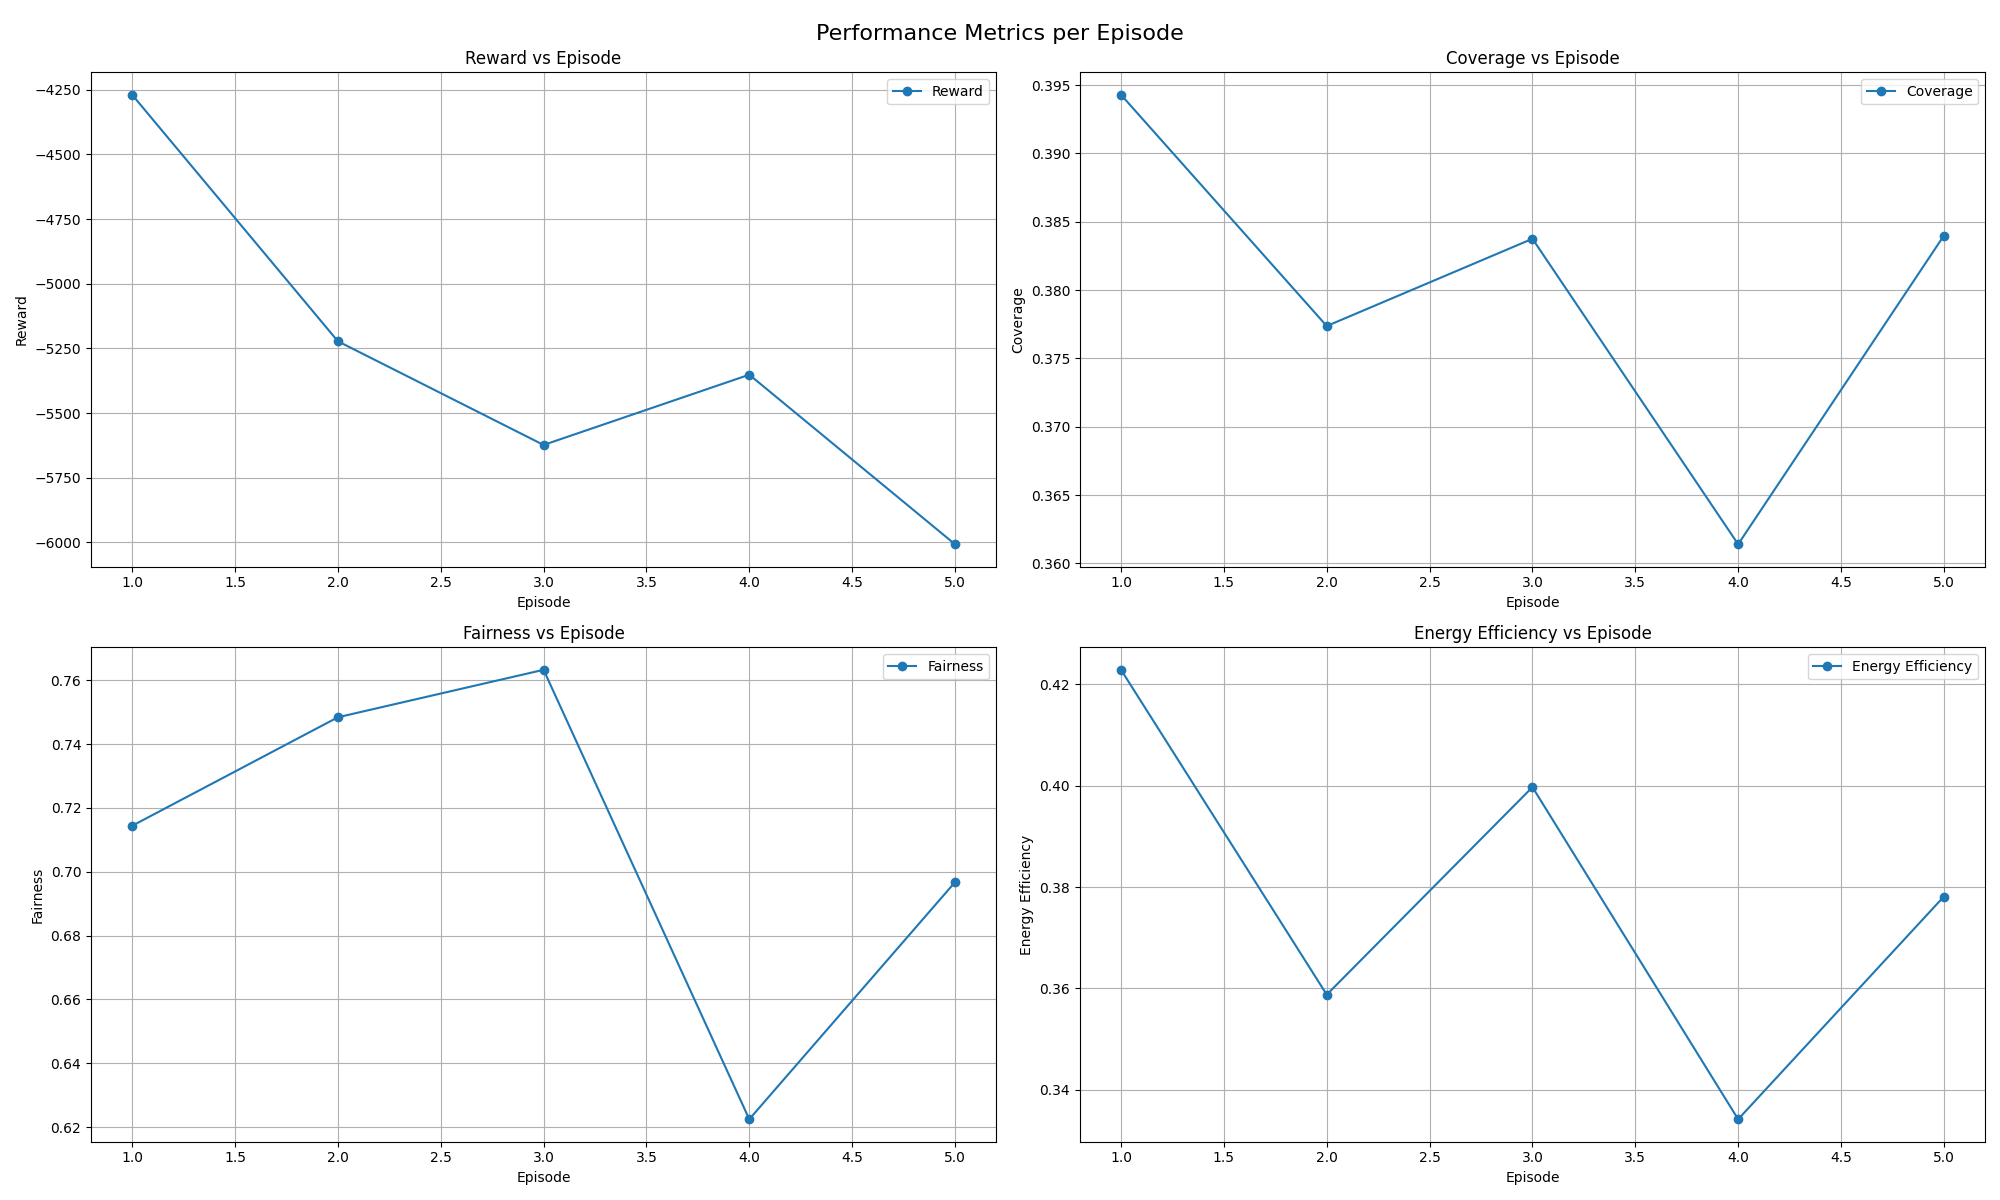
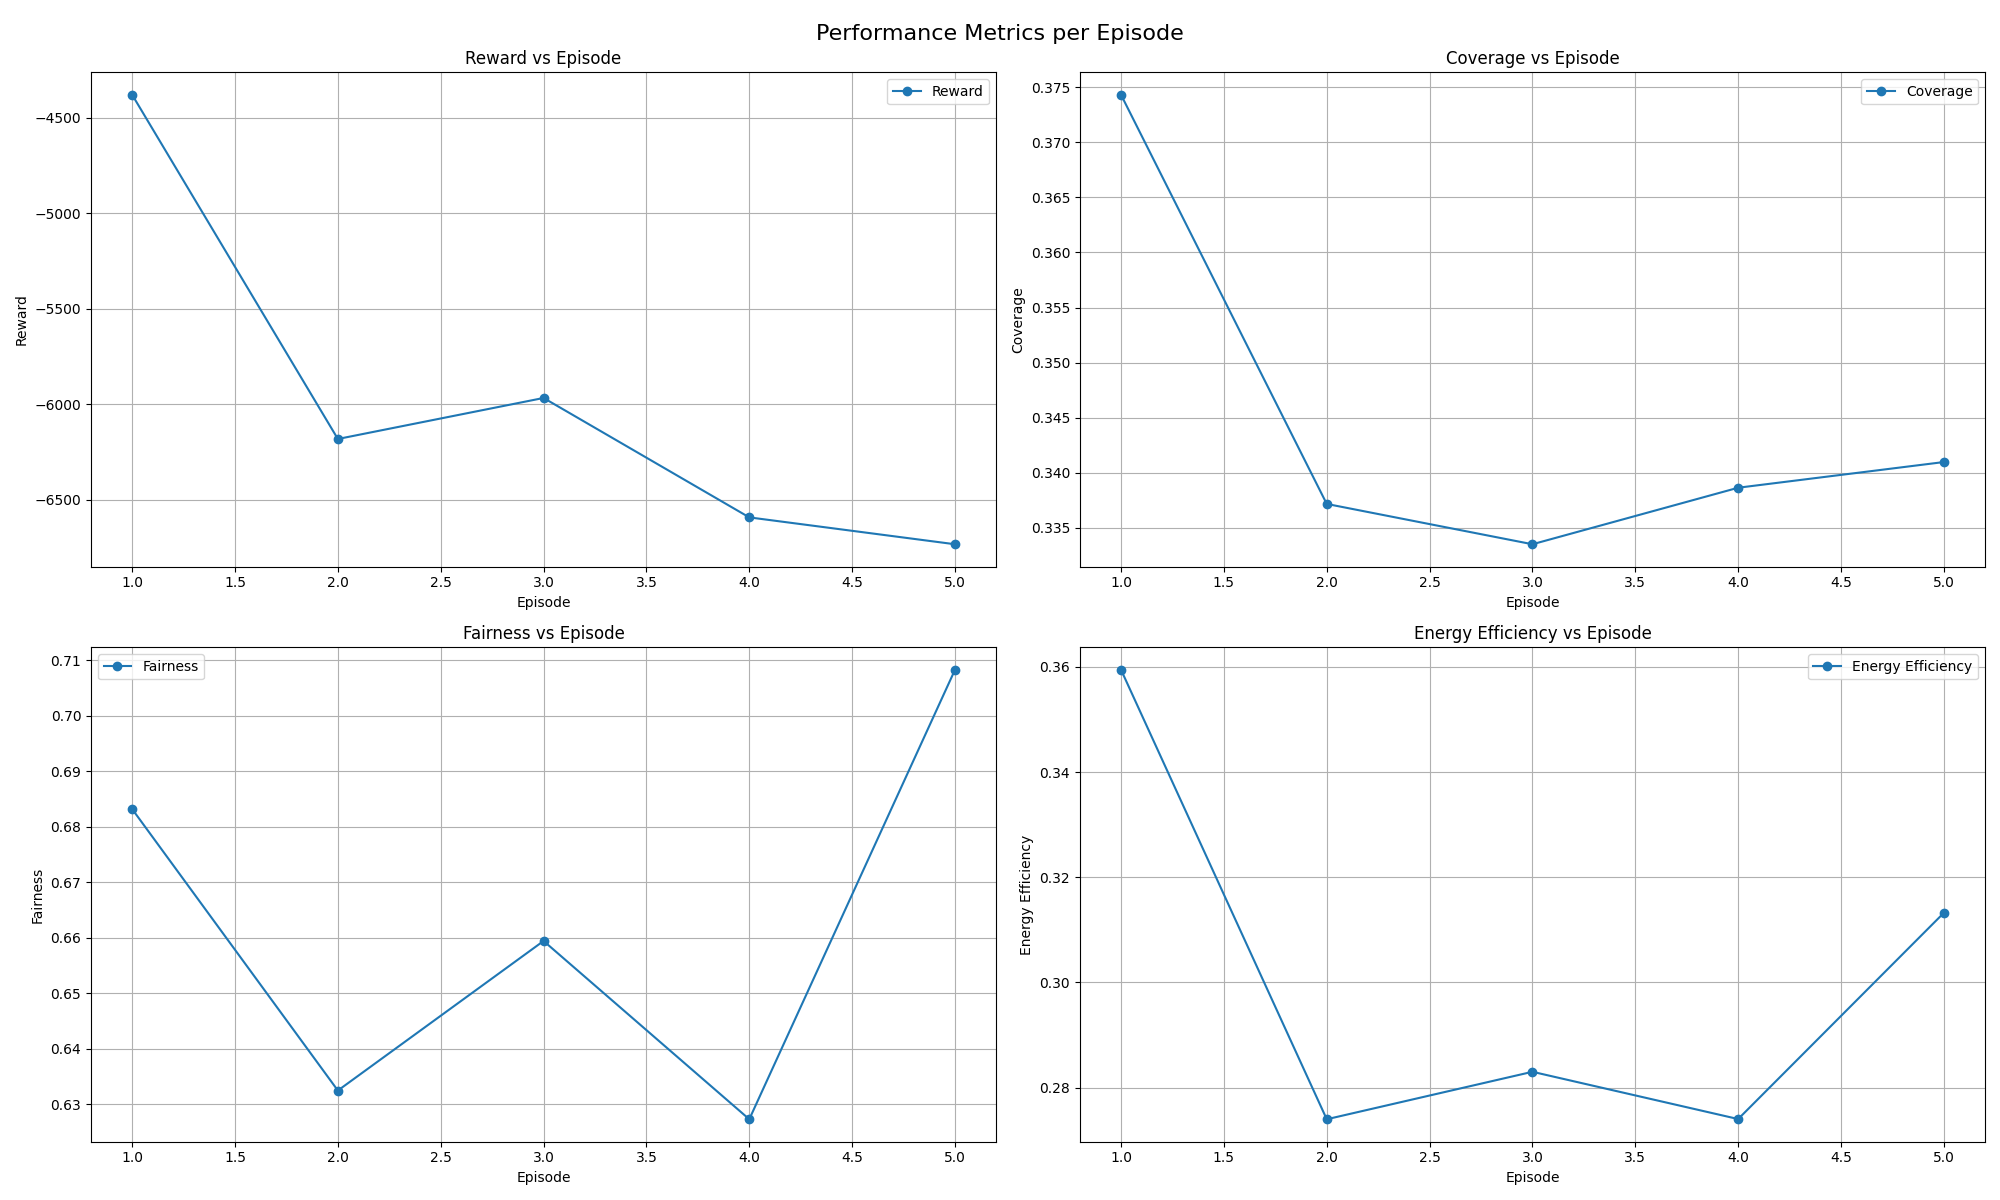
😎Added requirements.txt +🤞 code to run on gpu + 🐞few bugs fixed

diff --git a/cnn/maddpg_uav.py b/cnn/maddpg_uav.py
@@ -7,8 +7,12 @@ from buffer import ReplayBuffer
 
 ALPHA = 0.5  # CVaR quantile level
 
+# Set device
+device = torch.device("cuda" if torch.cuda.is_available() else "cpu")
+
+
 class MADDPG:
-    def __init__(self, num_agents, obs_shape, action_dim, hidden_dim=160, gamma=0.83, tau=0.01, actor_lr=1e-3, critic_lr=1e-3, device="cpu"):
+    def __init__(self, num_agents, obs_shape, action_dim, hidden_dim=160, gamma=0.83, tau=0.01, actor_lr=1e-3, critic_lr=1e-3, device=device):
         self.num_agents = num_agents
         self.device = device
 
@@ -34,7 +38,7 @@ class MADDPG:
         self._init_target_networks()
 
         # Replay buffer
-        self.buffer = ReplayBuffer(max_size=1000000, num_agents=num_agents, obs_dim=self.obs_dim, action_dim=action_dim)
+        self.buffer = ReplayBuffer(max_size=1000000, num_agents=num_agents, obs_dim=self.obs_dim, action_dim=action_dim,)
 
         # Exploration noise
         self.noise = [GaussianNoise(action_dim) for _ in range(num_agents)]
@@ -60,7 +64,8 @@ class MADDPG:
                 obs_tensor = obs_tensor.permute(2, 0, 1).unsqueeze(0)  # (1, channels, height, width)
 
             with torch.no_grad():
-                action = actor(obs_tensor).detach().cpu().numpy()
+                action = actor(obs_tensor)
+                action = action.cpu().numpy()
 
             # Handle single action without batch dimension
             if len(action.shape) > 1:
@@ -81,12 +86,12 @@ class MADDPG:
             # Sample from buffer
             obs_batch, act_batch, rew_batch, next_obs_batch, done_batch = self.buffer.sample(batch_size)
 
-            # Convert to torch tensors
-            obs_tensor = torch.tensor(obs_batch, dtype=torch.float32).to(self.device)
-            act_tensor = torch.tensor(act_batch, dtype=torch.float32).to(self.device)
-            next_obs_tensor = torch.tensor(next_obs_batch, dtype=torch.float32).to(self.device)
-            rew_tensor = torch.tensor(rew_batch, dtype=torch.float32).to(self.device)
-            done_tensor = torch.tensor(done_batch, dtype=torch.float32).to(self.device)
+            # Convert to torch tensors and ensure contiguous memory layout
+            obs_tensor = (torch.tensor(obs_batch, dtype=torch.float32).to(self.device).contiguous())
+            act_tensor = (torch.tensor(act_batch, dtype=torch.float32).to(self.device).contiguous())
+            next_obs_tensor = (torch.tensor(next_obs_batch, dtype=torch.float32).to(self.device).contiguous())
+            rew_tensor = (torch.tensor(rew_batch, dtype=torch.float32).to(self.device).contiguous())
+            done_tensor = (torch.tensor(done_batch, dtype=torch.float32).to(self.device).contiguous())
 
             # Process observations through CNN for each agent
             all_obs_features = []
@@ -95,12 +100,12 @@ class MADDPG:
             for j in range(self.num_agents):
                 # Process current observations
                 # Reshape for CNN: (batch, agent, height, width, channels) -> (batch, channels, height, width)
-                agent_obs = obs_tensor[:, j].permute(0, 3, 1, 2)
+                agent_obs = obs_tensor[:, j].permute(0, 3, 1, 2).contiguous()
                 agent_features = self.actors[j].cnn(agent_obs)
                 all_obs_features.append(agent_features)
 
                 # Process next observations
-                agent_next_obs = next_obs_tensor[:, j].permute(0, 3, 1, 2)
+                agent_next_obs = next_obs_tensor[:, j].permute(0, 3, 1, 2).contiguous()
                 agent_next_features = self.target_actors[j].cnn(agent_next_obs)
                 all_next_obs_features.append(agent_next_features)
 
@@ -109,29 +114,29 @@ class MADDPG:
             next_obs_flat = torch.cat(all_next_obs_features, dim=1)
 
             # Flatten actions
-            act_flat = act_tensor.view(batch_size, -1)
+            act_flat = act_tensor.reshape(batch_size, -1)
 
             # Get next actions from target actors
             next_actions = []
             for j, target_actor in enumerate(self.target_actors):
                 # Process grid observation
-                next_obs_j = next_obs_tensor[:, j].permute(0, 3, 1, 2)
+                next_obs_j = next_obs_tensor[:, j].permute(0, 3, 1, 2).contiguous()
                 next_agent_action = target_actor(next_obs_j)
                 next_actions.append(next_agent_action)
 
             next_actions_tensor = torch.stack(next_actions, dim=1)
-            next_actions_flat = next_actions_tensor.view(batch_size, -1)
+            next_actions_flat = next_actions_tensor.reshape(batch_size, -1)
 
             # Compute predicted quantile distribution
             critic_output = self.critics[i](next_obs_flat, next_actions_flat)  # [batch_size, num_quantiles]
             critic_sorted, _ = torch.sort(critic_output, dim=1)
-            cvar_pred = torch.mean(critic_sorted[:, :int(ALPHA * critic_output.size(1))], dim=1, keepdim=True)  # [batch_size, 1]
+            cvar_pred = torch.mean(critic_sorted[:, : int(ALPHA * critic_output.size(1))], dim=1, keepdim=True,)  # [batch_size, 1]
 
             # Calculate target Q-value
             with torch.no_grad():
                 target_output = self.target_critics[i](next_obs_flat, next_actions_flat)
                 target_sorted, _ = torch.sort(target_output, dim=1)
-                cvar_target = torch.mean(target_sorted[:, :int(ALPHA * critic_output.size(1))], dim=1, keepdim=True)
+                cvar_target = torch.mean(target_sorted[:, : int(ALPHA * critic_output.size(1))], dim=1, keepdim=True,)
 
             # Current Q-value
             critic_loss = F.mse_loss(cvar_pred, cvar_target)
@@ -147,14 +152,14 @@ class MADDPG:
             for j in range(self.num_agents):
                 if j == i:
                     # Process grid observation
-                    obs_i = obs_tensor[:, i].permute(0, 3, 1, 2)
+                    obs_i = obs_tensor[:, i].permute(0, 3, 1, 2).contiguous()
                     current_agent_action = self.actors[i](obs_i)
                     current_actions.append(current_agent_action)
                 else:
                     current_actions.append(act_tensor[:, j].detach())
 
             current_actions_tensor = torch.stack(current_actions, dim=1)
-            current_actions_flat = current_actions_tensor.view(batch_size, -1)
+            current_actions_flat = current_actions_tensor.reshape(batch_size, -1)
 
             # Policy gradient
             actor_loss = -self.critics[i](obs_flat.detach(), current_actions_flat).mean()
@@ -188,7 +193,17 @@ class MADDPG:
         """
         for i in range(self.num_agents):
             # Save actor, target actor, and actor optimizer
-            torch.save({"actor": self.actors[i].state_dict(), "target_actor": self.target_actors[i].state_dict(), "actor_optimizer": self.actor_optimizers[i].state_dict(), "critic": self.critics[i].state_dict(), "target_critic": self.target_critics[i].state_dict(), "critic_optimizer": self.critic_optimizers[i].state_dict()}, f"{path}/agent_{i}.pth")
+            torch.save(
+                {
+                    "actor": self.actors[i].state_dict(),
+                    "target_actor": self.target_actors[i].state_dict(),
+                    "actor_optimizer": self.actor_optimizers[i].state_dict(),
+                    "critic": self.critics[i].state_dict(),
+                    "target_critic": self.target_critics[i].state_dict(),
+                    "critic_optimizer": self.critic_optimizers[i].state_dict(),
+                },
+                f"{path}/agent_{i}.pth",
+            )
 
     def load(self, path):
         """

diff --git a/cnn/test.py b/cnn/test.py
@@ -8,17 +8,26 @@ import input
 from maddpg_uav import MADDPG
 from logger import Logger
 from plot_logs import generate_plots
+from datetime import datetime
 
 def test(load_dir, use_image_init=False, image_path=None):
     if use_image_init and image_path:
         input.input_image(image_path)
     env = MultiUAVEnv(image_init=use_image_init, log_dir="./test_state_images")
-    logger = Logger(log_dir="./test_logs")
+    timestamp = datetime.now().strftime("%Y-%m-%d_%H-%M-%S")
+    print(f"🚀 Training started at {timestamp}")
+
+    log_data_file_name = f"log_data_{timestamp}.json"
+    logger = Logger(
+        log_dir="./test_logs",
+        log_file_name=f"logs_{timestamp}.txt",
+        log_data_file_name=log_data_file_name,
+    )
     num_agents = env.num_uavs
     obs_dim = (env.width, env.height, env.channels)
     action_dim = 2
 
-    maddpg = MADDPG(num_agents=num_agents, obs_shape=obs_dim, action_dim=action_dim, device="cpu")
+    maddpg = MADDPG(num_agents=num_agents, obs_shape=obs_dim, action_dim=action_dim)
     maddpg.load(load_dir)
 
     NUM_EPISODES = 20
@@ -37,7 +46,7 @@ def test(load_dir, use_image_init=False, image_path=None):
         maddpg.reset_noise()
 
         if episode == 1:
-            env.save_image()
+            env.save_state_image()
 
         episode_reward = 0
         score_log = {"coverage": [], "fairness": [], "energy_efficiency": [], "penalty_per_uav": []}
@@ -59,22 +68,22 @@ def test(load_dir, use_image_init=False, image_path=None):
 
         # Store rewards and scores per episode
         episode_rewards.append(episode_reward)
-        score_log_per_episode["coverage"].append(np.mean(score_log["coverage"]))
+        score_log_per_episode["coverage"].append(score_log["coverage"][-1])
         score_log_per_episode["fairness"].append(score_log["fairness"][-1])
-        score_log_per_episode["energy_efficiency"].append(np.mean(score_log["energy_efficiency"]))
-        score_log_per_episode["penalty_per_uav"].append(np.mean(np.stack(score_log["penalty_per_uav"], axis=0), axis=0))
+        score_log_per_episode["energy_efficiency"].append(score_log["energy_efficiency"][-1])
+        score_log_per_episode["penalty_per_uav"].append(np.stack(score_log["penalty_per_uav"], axis=0)[-1])
 
         # Logging
         if episode % LOG_FREQ == 0:
             elapsed_time = time.time() - start_time
-            env.save_image(f"state_epi_{episode}")
+            env.save_state_image(f"test_tate_epi_{episode}")
             logger.log_episode_metrics(episode, episode_rewards, score_log_per_episode, LOG_FREQ, elapsed_time)
 
     print("✅ Testing Completed!\n")
 
     # Call the plotting function at the end of testing
     print("📊 Generating plots...")
-    generate_plots(log_file='./test_logs/log_data.json', output_dir='./plots/', output_file='testing_plots.png')
+    generate_plots(log_file=f'./test_logs/{log_data_file_name}', output_dir='./plots/', output_file='testing_plots.png')
 
 
 if __name__ == "__main__":

diff --git a/cnn/train.py b/cnn/train.py
@@ -8,6 +8,7 @@ from env import Env as MultiUAVEnv
 from maddpg_uav import MADDPG
 from logger import Logger
 from plot_logs import generate_plots
+from datetime import datetime
 
 # os.environ["CUDA_VISIBLE_DEVICES"] = "0"  # will this be needed?
 
@@ -29,17 +30,25 @@ def train(use_image_init=False, image_path=None):
     if use_image_init and image_path:
         input.input_image(image_path)
     env = MultiUAVEnv(image_init=use_image_init, log_dir="./train_state_images")
-    logger = Logger(log_dir="./train_logs")
+    timestamp = datetime.now().strftime("%Y-%m-%d_%H-%M-%S")
+    print(f"🚀 Training started at {timestamp}")
+
+    log_data_file_name = f"log_data_{timestamp}.json"
+    logger = Logger(
+        log_dir="./train_logs",
+        log_file_name=f"logs_{timestamp}.txt",
+        log_data_file_name=log_data_file_name,
+    )
     num_agents = env.num_uavs
     obs_dim = (env.width, env.height, env.channels)
     action_dim = 2
 
-    maddpg = MADDPG(num_agents=num_agents, obs_shape=obs_dim, action_dim=action_dim, device="cpu")
+    maddpg = MADDPG(num_agents=num_agents, obs_shape=obs_dim, action_dim=action_dim)
 
     NUM_EPISODES = 5  # 500
     MAX_STEPS = 300  # 500
     BATCH_SIZE = 32
-    LOG_FREQ = 1 # 10
+    LOG_FREQ = 1  # 10
     LEARN_FREQ = 5  # learn every 5 steps
     SAVE_FREQ = 25  # save models every 25 episodes
 
@@ -86,10 +95,10 @@ def train(use_image_init=False, image_path=None):
 
         # Store rewards and scores per episode
         episode_rewards.append(episode_reward)
-        score_log_per_episode["coverage"].append(np.mean(score_log["coverage"]))
+        score_log_per_episode["coverage"].append(score_log["coverage"][-1])
         score_log_per_episode["fairness"].append(score_log["fairness"][-1])
-        score_log_per_episode["energy_efficiency"].append(np.mean(score_log["energy_efficiency"]))
-        score_log_per_episode["penalty_per_uav"].append(np.mean(np.stack(score_log["penalty_per_uav"], axis=0), axis=0))
+        score_log_per_episode["energy_efficiency"].append(score_log["energy_efficiency"][-1])
+        score_log_per_episode["penalty_per_uav"].append(np.stack(score_log["penalty_per_uav"], axis=0)[-1])
 
         # Logging
         if episode % LOG_FREQ == 0:
@@ -108,7 +117,7 @@ def train(use_image_init=False, image_path=None):
 
     # Call the plotting function at the end of training
     print("📊 Generating plots...")
-    generate_plots(log_file='./train_logs/log_data.json', output_dir='./plots/', output_file='training_plots.png')
+    generate_plots(log_file=f"./train_logs/{log_data_file_name}", output_dir="./plots/", output_file="training_plots.png")
 
 
 if __name__ == "__main__":

diff --git a/cnn/logger.py b/cnn/logger.py
@@ -3,15 +3,15 @@ import os
 import numpy as np
 
 class Logger:
-    def __init__(self, log_dir="."):
+    def __init__(self, log_dir=".", log_file_name="logs.txt", log_data_file_name="log_data.json"):
         if not os.path.exists(log_dir):
             os.makedirs(log_dir)
 
         # Plaintext log file
-        self.log_file_path = os.path.join(log_dir, "logs.txt")
+        self.log_file_path = os.path.join(log_dir, log_file_name)
         # JSON file for plotting
-        self.json_file_path = os.path.join(log_dir, "log_data.json")
-        
+        self.json_file_path = os.path.join(log_dir, log_data_file_name)
+
     def save(self, json_data):
         with open(self.json_file_path, "w") as f:
             json.dump(json_data, f, indent=4)
